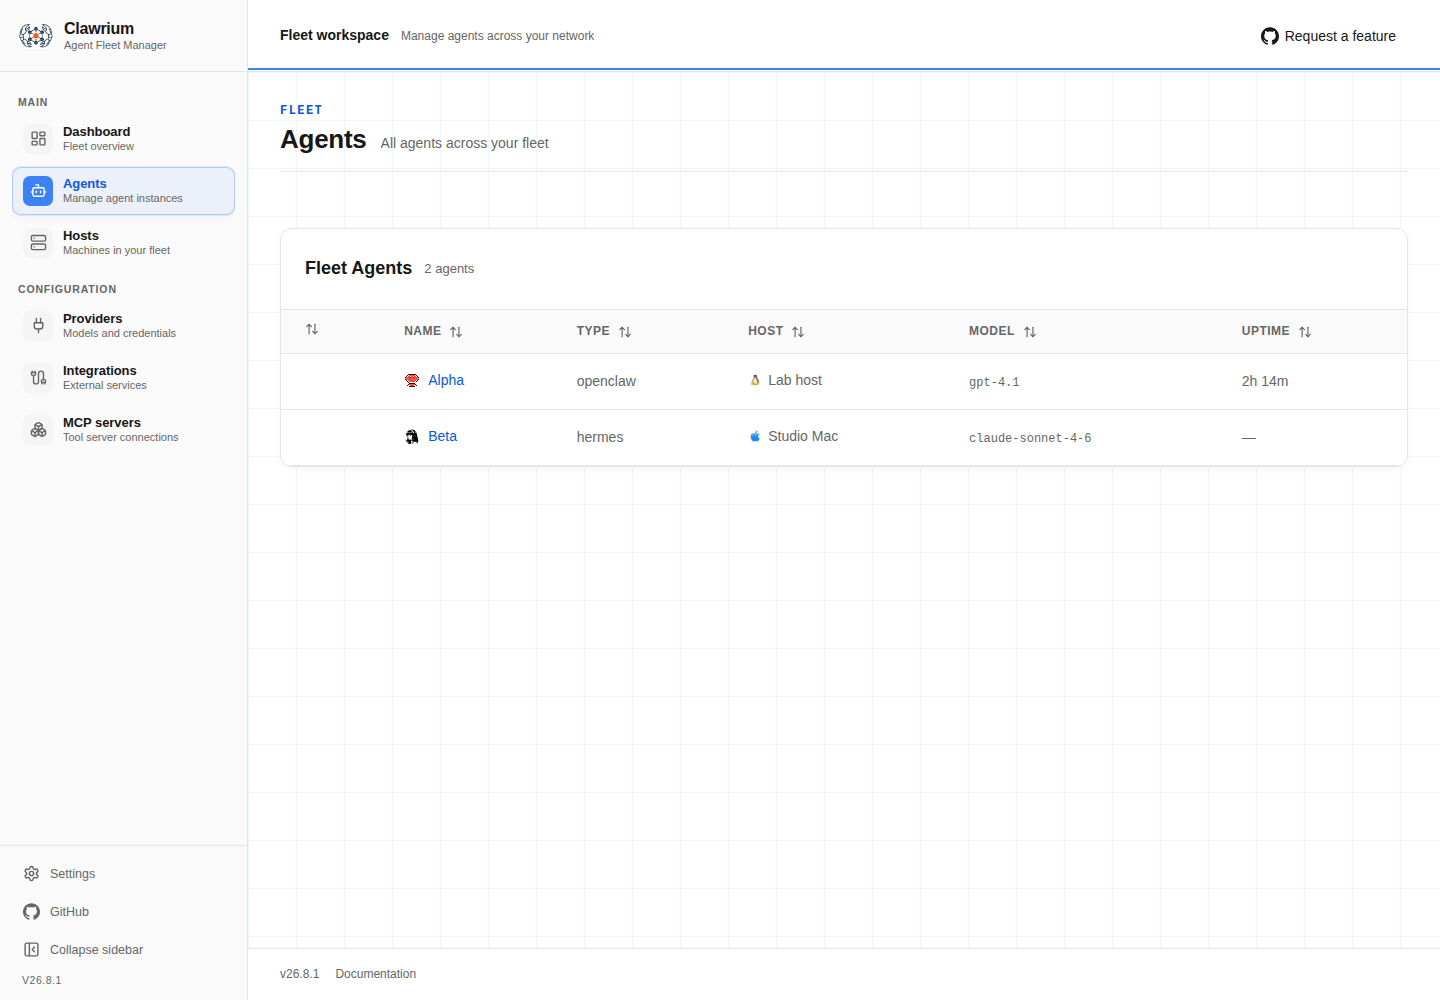
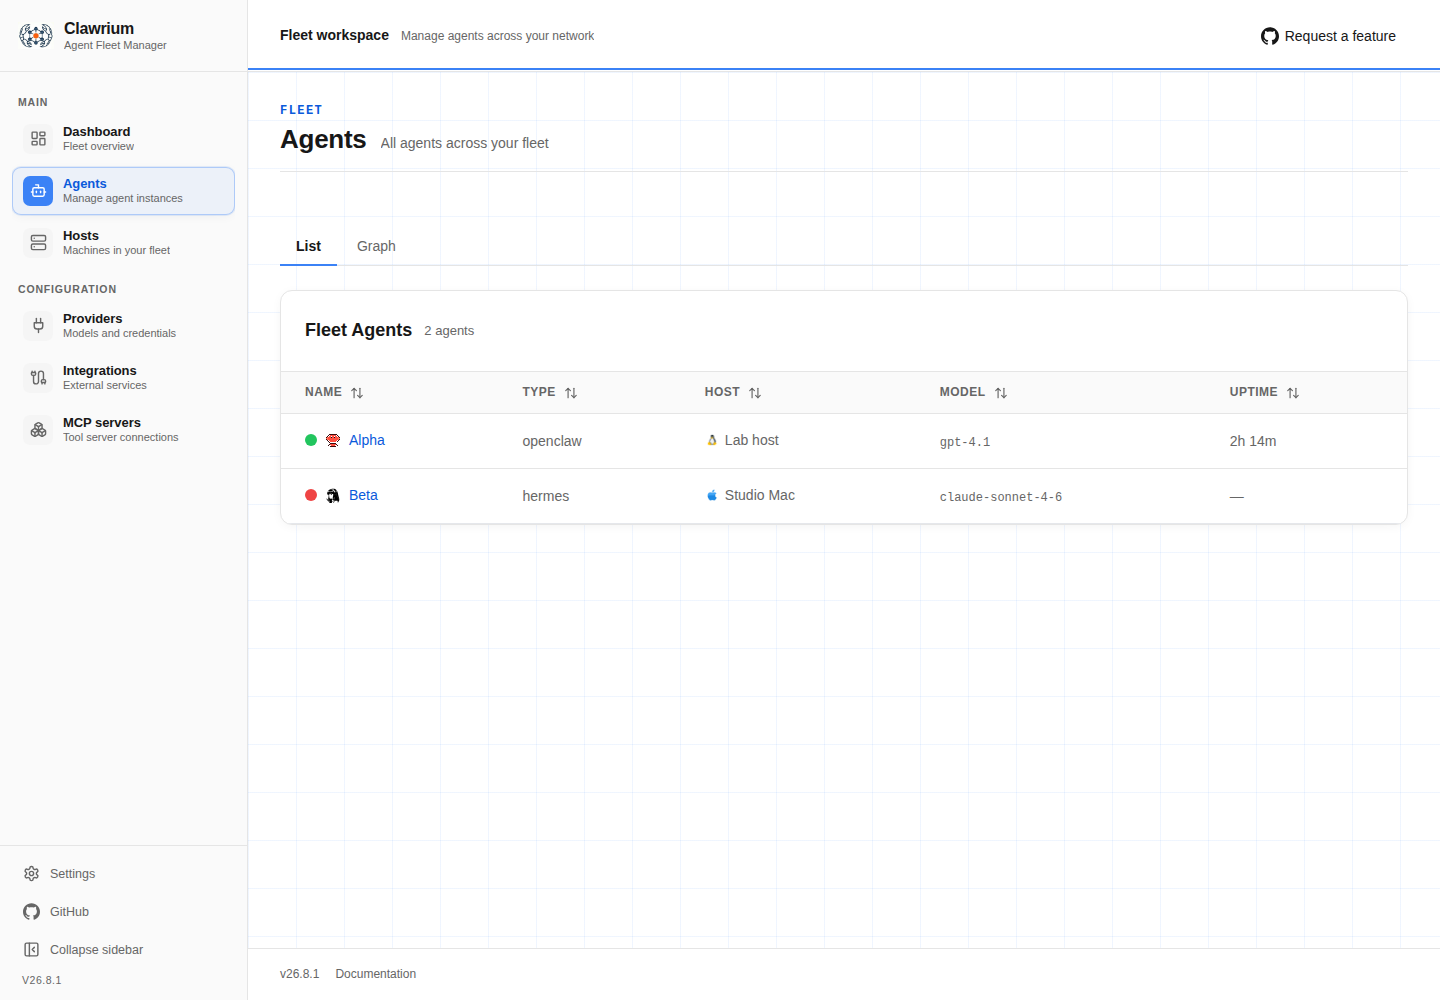
fix(gui): restore agents graph view
Remove the empty standalone status column, keep status and official branding in the Name cell, and restore List/Graph tabs using the shared design-system TabBar and reusable topology view.\n\nRefs #1075

diff --git a/gui/e2e/design-system.spec.ts b/gui/e2e/design-system.spec.ts
@@ -39,6 +39,42 @@ const fleet = {
   summary: { total: 2, running: 1, provisioning: 0, hosts: 2 },
 };
 
+const topology = {
+  control: { label: "Control", description: "clawctl CLI" },
+  summary: { total_agents: 2, running: 1, total_hosts: 2 },
+  connections: [],
+  hosts: [
+    {
+      hostname: "lab.example",
+      alias: "Lab host",
+      user: "xclm",
+      addresses: ["192.0.2.10"],
+      has_key: true,
+      agent_count: 1,
+      agents: [{
+        ...fleet.agents[0],
+        version: "1.0.0",
+        provider_endpoint: "https://api.openai.com/v1",
+        provider_accelerator_vendor: null,
+      }],
+    },
+    {
+      hostname: "studio.example",
+      alias: "Studio Mac",
+      user: "xclm",
+      addresses: ["192.0.2.11"],
+      has_key: true,
+      agent_count: 1,
+      agents: [{
+        ...fleet.agents[1],
+        version: "1.0.0",
+        provider_endpoint: "https://api.anthropic.com",
+        provider_accelerator_vendor: null,
+      }],
+    },
+  ],
+};
+
 const providers = [
   {
     name: "openai-main",
@@ -126,6 +162,7 @@ async function installApiFixtures(page: Page) {
 
     if (path === "/api/settings/version") return fulfillJson(route, { version: "26.8.1" });
     if (path === "/api/fleet") return fulfillJson(route, fleet);
+    if (path === "/api/fleet/topology") return fulfillJson(route, topology);
     if (path === "/api/fleet/health") {
       return fulfillJson(route, {
         summary: fleet.summary,
@@ -289,6 +326,19 @@ test("Agents DataTable renders fixtures and exposes keyboard-operable agent link
   await page.goto("/agents");
   await expect(table.getByRole("row", { name: /Alpha/ })).toBeVisible();
   await evidence(page, "desktop-agents-table.png");
+});
+
+test("Agents view exposes reusable List and Graph tabs", async ({ page }) => {
+  await page.goto("/agents");
+  const listTab = page.getByRole("tab", { name: "List" });
+  const graphTab = page.getByRole("tab", { name: "Graph" });
+  await expect(listTab).toHaveAttribute("aria-selected", "true");
+  await graphTab.click();
+  await expect(graphTab).toHaveAttribute("aria-selected", "true");
+  await expect(page.locator(".react-flow")).toBeVisible();
+  await evidence(page, "desktop-agents-graph.png");
+  await listTab.click();
+  await expect(page.getByRole("table")).toBeVisible();
 });
 
 test("Providers DataTable actions are keyboard operable and modal closes with Escape", async ({ page }) => {

diff --git a/gui/src/app/agents/page.tsx b/gui/src/app/agents/page.tsx
@@ -3,8 +3,9 @@
 import { useSearchParams, useRouter } from "next/navigation";
 import { Suspense, useState } from "react";
 import { useAgent, useAgentHealth } from "@/hooks";
-import { PageHeader, getTabId, getTabPanelId } from "@/design-system";
+import { PageHeader, TabBar, getTabId, getTabPanelId } from "@/design-system";
 import { AgentTable } from "@/components/dashboard";
+import { TopologyView } from "@/components/topology";
 import {
   AgentHeader,
   AgentMetrics,
@@ -35,6 +36,8 @@ function AgentsRouter() {
 }
 
 function AgentsListView() {
+  const [view, setView] = useState<"list" | "graph">("list");
+
   return (
     <div className="flex flex-col gap-6">
       <PageHeader
@@ -43,7 +46,22 @@ function AgentsListView() {
         title="Agents"
         description="All agents across your fleet"
       />
-      <AgentTable />
+      <TabBar
+        trackingId="agents.page.views"
+        tabs={[
+          { id: "list", label: "List" },
+          { id: "graph", label: "Graph" },
+        ]}
+        value={view}
+        onValueChange={(value) => setView(value as "list" | "graph")}
+      />
+      <div
+        role="tabpanel"
+        id={getTabPanelId("agents.page.views", view)}
+        aria-labelledby={getTabId("agents.page.views", view)}
+      >
+        {view === "list" ? <AgentTable /> : <TopologyView />}
+      </div>
     </div>
   );
 }

diff --git a/gui/src/app/topology/page.tsx b/gui/src/app/topology/page.tsx
@@ -1,16 +1,9 @@
 "use client";
 
 import { PageHeader } from "@/design-system";
-import { TopologyCanvas } from "@/components/topology";
-import { useFleetHealth } from "@/hooks/use-fleet-health";
-import { useTopology } from "@/hooks/use-topology";
+import { TopologyView } from "@/components/topology";
 
 export default function TopologyPage() {
-  const { data, isLoading, error } = useTopology();
-  // Poll for live SSH-based health; the hook merges results into the
-  // topology cache so agent statuses leave the 'checking' state.
-  useFleetHealth();
-
   return (
     <div>
       <PageHeader
@@ -19,20 +12,7 @@ export default function TopologyPage() {
         title="Agent Topology"
         description="Network diagram of hosts and agents"
       />
-
-      {isLoading && (
-        <div className="bg-surface rounded-xl border border-default p-12 text-center text-muted">
-          Loading topology...
-        </div>
-      )}
-
-      {error && (
-        <div className="bg-red-50 rounded-xl border border-red-200 p-6 text-center text-red-700 text-sm">
-          Failed to load topology: {error.message}
-        </div>
-      )}
-
-      {data && <TopologyCanvas data={data} />}
+      <TopologyView />
     </div>
   );
 }

diff --git a/gui/src/components/topology/topology-view.tsx b/gui/src/components/topology/topology-view.tsx
@@ -1,0 +1,29 @@
+"use client";
+
+import { useFleetHealth } from "@/hooks/use-fleet-health";
+import { useTopology } from "@/hooks/use-topology";
+import { TopologyCanvas } from "./topology-canvas";
+
+export function TopologyView() {
+  const { data, isLoading, error } = useTopology();
+  // Poll for live SSH-based health and merge it into the topology cache.
+  useFleetHealth();
+
+  if (isLoading) {
+    return (
+      <div className="bg-surface rounded-xl border border-default p-12 text-center text-muted">
+        Loading topology...
+      </div>
+    );
+  }
+
+  if (error) {
+    return (
+      <div className="bg-red-50 rounded-xl border border-red-200 p-6 text-center text-red-700 text-sm">
+        Failed to load topology: {error.message}
+      </div>
+    );
+  }
+
+  return data ? <TopologyCanvas data={data} /> : null;
+}

diff --git a/gui/src/components/dashboard/agent-table.tsx b/gui/src/components/dashboard/agent-table.tsx
@@ -10,11 +10,6 @@ import type { AgentSummary } from "@/lib/types";
 
 const columns: ColumnDef<AgentSummary, unknown>[] = [
   {
-    accessorKey: "status",
-    header: () => <span className="sr-only">Status</span>,
-    cell: ({ row }) => <StatusDot status={row.original.status} size="md" />,
-  },
-  {
     accessorKey: "agent_name",
     header: "Name",
     cell: ({ row }) => (
@@ -23,6 +18,7 @@ const columns: ColumnDef<AgentSummary, unknown>[] = [
         aria-label={`Open agent ${row.original.agent_name}`}
         className="inline-flex items-center gap-2 font-medium text-primary-foreground hover:underline"
       >
+        <StatusDot status={row.original.status} size="md" />
         <AgentLogo
           trackingId="dashboard.agents.agent-logo"
           kind={row.original.agent_type}

diff --git a/gui/src/components/dashboard/agent-table.test.tsx b/gui/src/components/dashboard/agent-table.test.tsx
@@ -64,7 +64,7 @@ describe("AgentTable", () => {
     const { container } = render(<AgentTable />);
 
     expect(container.querySelector('[data-i7n-component="data-table"][data-i7n-name="dashboard.agents.table-card"]')).toBeInTheDocument();
-    expect(screen.getByRole("columnheader", { name: "Status" })).toBeInTheDocument();
+    expect(screen.queryByRole("columnheader", { name: "Status" })).not.toBeInTheDocument();
     for (const heading of ["Name", "Type", "Host", "Model", "Uptime"]) {
       expect(screen.getByRole("columnheader", { name: new RegExp(heading) })).toBeInTheDocument();
     }

diff --git a/gui/src/components/topology/index.ts b/gui/src/components/topology/index.ts
@@ -1,4 +1,5 @@
 export { TopologyCanvas } from "./topology-canvas";
+export { TopologyView } from "./topology-view";
 export { ControlNode } from "./control-node";
 export { AgentNode } from "./agent-node";
 export { HostNode } from "./host-node";

diff --git a/CHANGELOG.md b/CHANGELOG.md
@@ -38,7 +38,7 @@ cut. The `itx-release` skill archives this section into a new
 
 ### Fixed
 
-- Complete the GUI design-system accessibility contracts with stable table identities, real row actions, keyboard tabs, AA text colors, a skip link, a reachable mobile sidebar toggle, official branding for every supported agent type, and the restored app-footer version (#1075).
+- Complete the GUI design-system accessibility contracts with stable table identities, real row actions, keyboard tabs, AA text colors, a skip link, a reachable mobile sidebar toggle, official branding for every supported agent type, and the restored app-footer version. The Agents surface now removes the empty status column and restores List/Graph tabs using the shared topology view (#1075).
 
 - Preserve the exact Codex OAuth credential bytes during activation so the stored fingerprint matches the installed document.
 

diff --git a/docs/architecture/gui-ui-map.md b/docs/architecture/gui-ui-map.md
@@ -46,7 +46,7 @@ Scheduled Jobs and Agent Builder are not part of this information architecture. 
 | Metrics Row | 5 stat cards | Total Agents · Running (of total) · Providers · Tokens 24h · Est. Cost 24h |
 | Token Usage (7 Days) | Stacked bar chart (Recharts) | Input/output tokens by model, with totals |
 | Agent Status | Donut/pie chart | Breakdown by status (Running/Stopped/Unknown) |
-| Fleet Agents | Data table | Columns: Status dot, linked Name, Type, Host, Model, Uptime. The real name link opens Agent Detail. |
+| Fleet Agents | List / Graph tabs | List columns: linked Name with inline status and official agent mark, Type, Host, Model, Uptime. Graph reuses the canonical topology view. The real name link opens Agent Detail. |
 
 **Interactions**: Activate the agent name link → navigate to `/agents?key=<key>`
 

diff --git a/.itx/1075/02_EXECUTE.md b/.itx/1075/02_EXECUTE.md
@@ -34,6 +34,9 @@ backend description/context-injection work recorded in the parent issue.
   application layout code now supplies data only.
 - Rebuilt the staged local frontend and verified the live six-agent Hermes fleet
   renders the official Hermes mark rather than the stale glyph fallback.
+- Removed the empty standalone status column by placing status inside the linked
+  Name cell, and restored List/Graph tabs on Agents using the shared `TabBar`
+  and reusable topology view.
 - Regenerated browser evidence and metadata after all fixes. Metadata describes
   the uncommitted working tree and does not claim a commit SHA.
 
